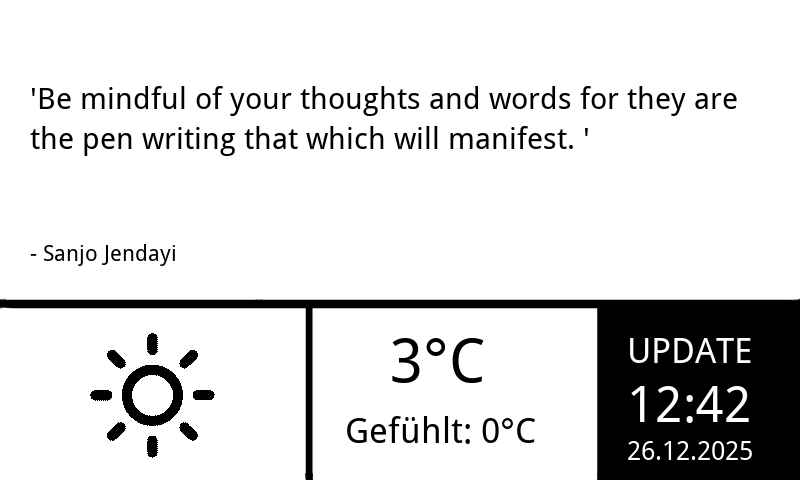
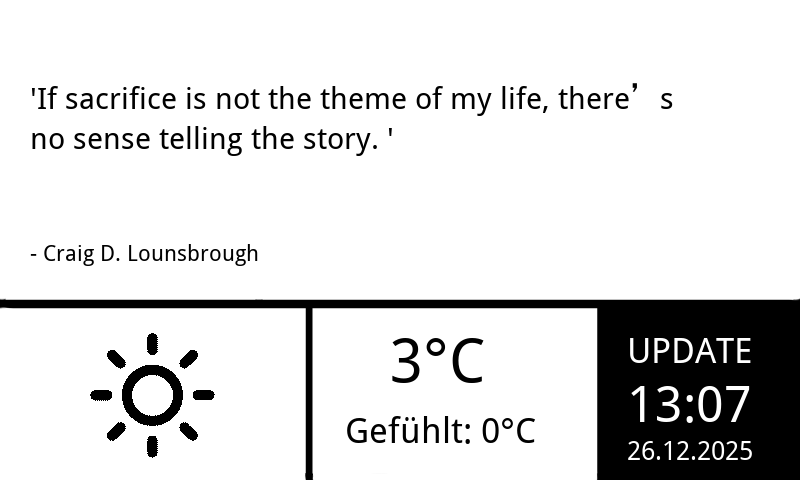
finalized everything to go into production mode

Changed region(s): [[0.0312, 0.1562, 0.9375, 0.3438], [0.0312, 0.5, 0.3125, 0.5625], [0.8125, 0.7812, 0.9375, 0.9062]]

diff --git a/weather.py b/weather.py
@@ -10,10 +10,10 @@ import traceback
 import requests
 
 # Automatically add the 'lib' directory relative to the script's location
-#script_dir = os.path.dirname(os.path.abspath(__file__))
-#lib_path = os.path.join(script_dir, 'lib')
-#sys.path.append(lib_path)
-#from waveshare_epd import epd7in5_V2
+script_dir = os.path.dirname(os.path.abspath(__file__))
+lib_path = os.path.join(script_dir, 'lib')
+sys.path.append(lib_path)
+from waveshare_epd import epd7in5_V2
 
 #Base
 FONT_DIR = os.path.join(os.path.dirname(__file__), 'font')
@@ -43,9 +43,9 @@ font160 = ImageFont.truetype(os.path.join(FONT_DIR, 'Font.ttc'), 160)
 COLORS = {'black': 'rgb(0,0,0)', 'white': 'rgb(255,255,255)', 'grey': 'rgb(235,235,235)'}
 
 #Initalize E-Paper
-#epd = epd7in5_V2.EPD()
-#epd.init()
-#epd.Clear()
+epd = epd7in5_V2.EPD()
+epd.init()
+epd.Clear()
         
 # Fetch quote api
 def fetch_quote_data():
@@ -102,13 +102,13 @@ def process_weather_data(weather_data):
 # Generate display image
 def generate_display_image(quote_proc, weather_proc):
     try:
-        #Vorbereitung für Erstellung des darzustellenden Bildes
+        #Preparation of display
         template = Image.open(os.path.join(PIC_DIR, 'template2.png'))
         draw = ImageDraw.Draw(template)
         icon_path = os.path.join(ICON_DIR, f"{weather_proc['icon_code']}.png")
         icon_image = Image.open(icon_path) if os.path.exists(icon_path) else None
         
-        #Zeichnung von Zitat und Autorname im oberen Feld
+        #Display quote and author in top display area
         quote_display = quote_proc['quote']
         
         #Separate quote into different lines with full words once quote is too long
@@ -151,12 +151,11 @@ def generate_display_image(quote_proc, weather_proc):
             draw.text((30, 80), f"'{quote_splitted_first}", font=font30, fill=COLORS['black'])
             draw.text((30, 120), f"{quote_splitted_second}", font=font30, fill=COLORS['black'])
             draw.text((30, 160), f"{quote_splitted_third}'", font=font30, fill=COLORS['black'])
-        else:
+        else:   #if too many characters, the quote will be shortened
             quote_display_separate = quote_display.split()
             quote_splitted_first = ''
             quote_splitted_second = ''
             quote_splitted_third = ''
-            quote_splitted_fourth='...'
             
             i = 0
             
@@ -168,25 +167,26 @@ def generate_display_image(quote_proc, weather_proc):
                 quote_splitted_second = quote_splitted_second + quote_display_separate[i] + ' '
                 i= i+1
                 
-            for item in quote_display_separate[i:]:
-                quote_splitted_third = quote_splitted_third + item + ' '
+            while len(quote_splitted_third) < 47:
+                quote_splitted_third = quote_splitted_third + quote_display_separate[i] + ' '
+                
+            quote_splitted_third = quote_splitted_third + "...'" #... to show continuance
       
             draw.text((30, 80), f"'{quote_splitted_first}", font=font30, fill=COLORS['black'])
             draw.text((30, 120), f"{quote_splitted_second}", font=font30, fill=COLORS['black'])
-            draw.text((30, 160), f"{quote_splitted_third}", font=font30, fill=COLORS['black'])  
-            draw.text((30, 200), f"{quote_splitted_fourth}'", font=font30, fill=COLORS['black'])  
+            draw.text((30, 160), f"{quote_splitted_third}", font=font30, fill=COLORS['black']) 
             
         draw.text((30, 240), f"- {quote_proc['author']}", font=font22, fill=COLORS['black'])
        
-        #Darstellung des Wettersymbols unten links
+        #Display of weather symbol left bottom
         if icon_image:
             template.paste(icon_image, (65, 310))
         
-        #Darstellung der aktuellen Temperatur und wie diese sich anfühlt
+        #Display of actual and felt temperatur mid bottom
         draw.text((390, 325), f"{weather_proc['temp_current']:.0f}°C", font=font60, fill=COLORS['black'])
         draw.text((345, 410), f"Gefühlt: {weather_proc['feels_like']:.0f}°C", font=font35, fill=COLORS['black'])
         
-        #Darstellung des Zeitpunkts der Aktualisierung
+        #Display of time and date of last update right bottom
         draw.text((627, 330), "UPDATE", font=font35, fill=COLORS['white'])
         current_time = datetime.now().strftime('%H:%M')
         draw.text((627, 375), current_time, font=font50, fill=COLORS['white'])
@@ -204,9 +204,9 @@ def display_image(image):
         image.save("trial_setup.png")
 
         #Setting up ePaper
-        #h_image = Image.new('1', (epd.width, epd.height), 255)
-        #h_image.paste(image, (0, 0))
-        #epd.display(epd.getbuffer(h_image))
+        h_image = Image.new('1', (epd.width, epd.height), 255)
+        h_image.paste(image, (0, 0))
+        epd.display(epd.getbuffer(h_image))
         logging.info("Image displayed on e-paper successfully.")
     except Exception as e:
         logging.error(f"Failed to display image: {e}")
@@ -230,10 +230,12 @@ if __name__ == "__main__":
     try:
         running = 0
         while running < 1:
+            epd.Clear()             #Clearing ePaper screen every 4 hours
             main()
-            #time.sleep(refresh_time)
-            running = 1
+            time.sleep(refresh_time)
+            #running = 1            #can be used to break code for debugging sessions to stop automatic while loop
     except Exception as e:
         logging.error(f"An unexpected error occurred: {e}. The process will be stopped until error is resolved.")
         running = 1
+        epd.sleep() #turn off ePaper screen
         
